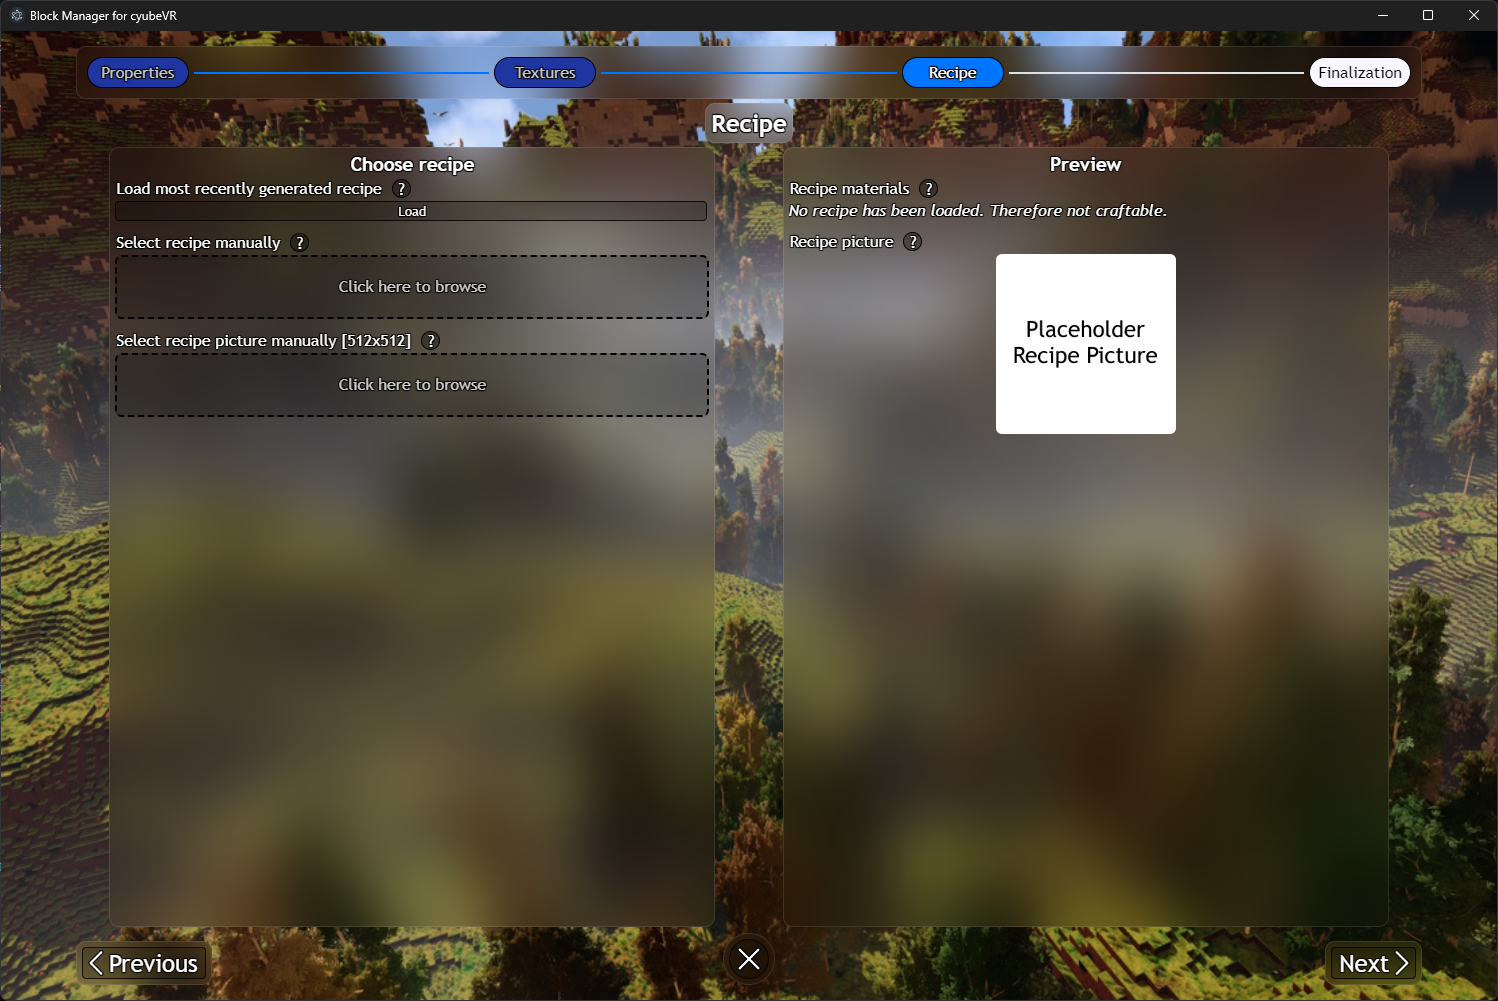
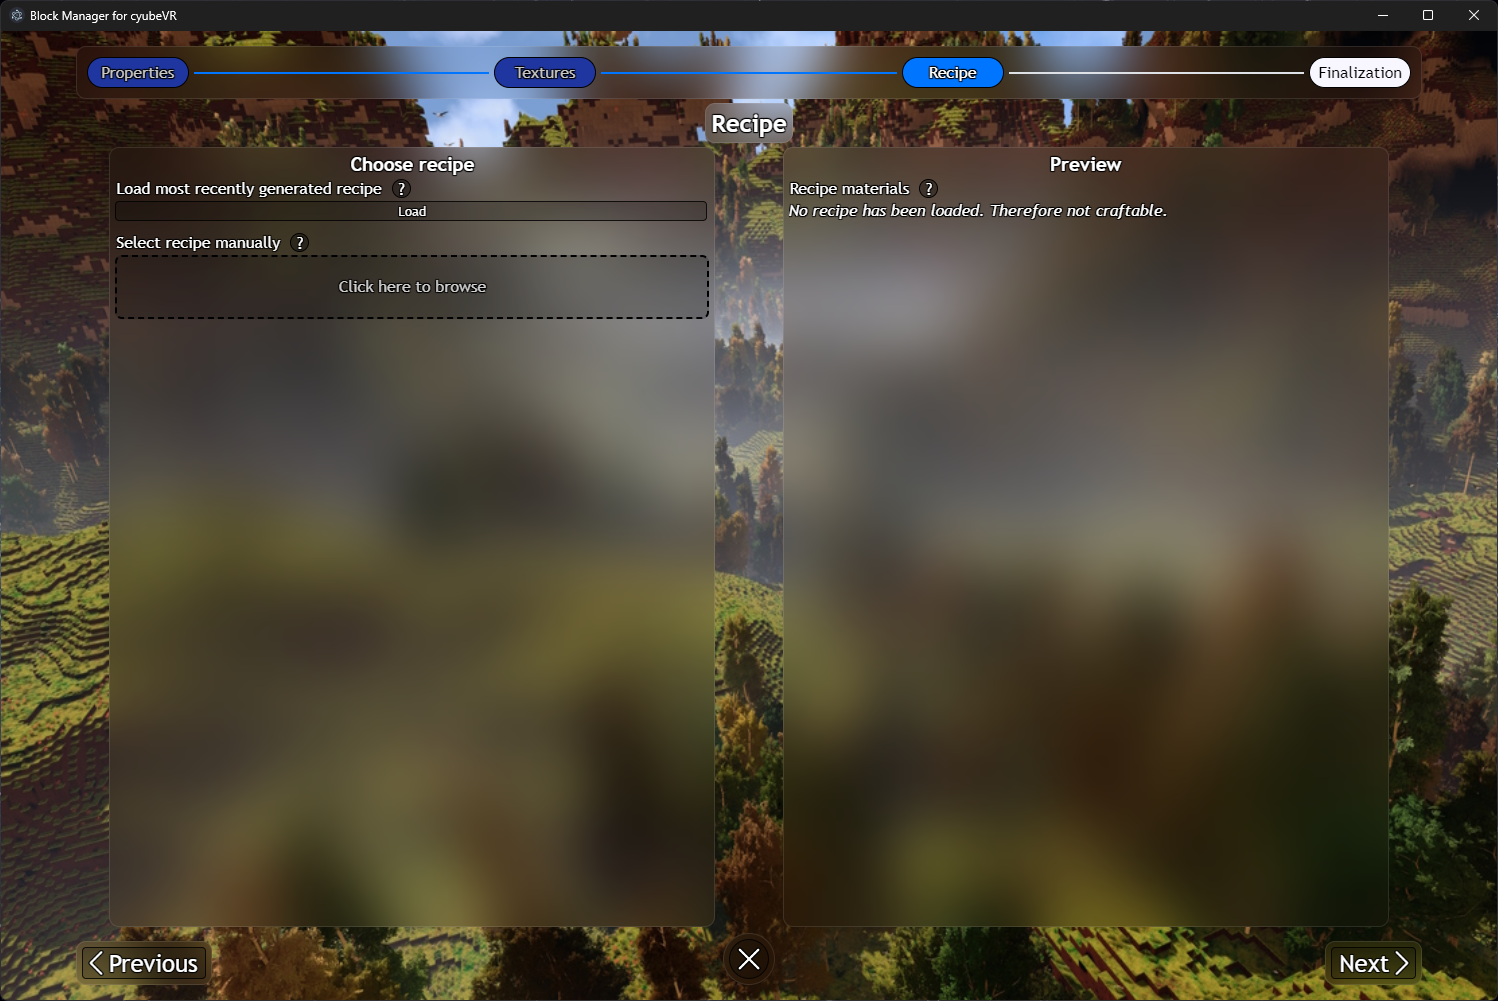
Updated readme

diff --git a/README.md b/README.md
@@ -40,11 +40,8 @@ Here there are also both Required and Optional textures that you can provide. Ho
 each type of texture.
 
 ### Recipe
-For the recipe you have to provide both a file specifying what blocks to use as well as an image showing how to craft the block.
-If you use the in-game recipe generator button, then you can simply press the "Load most recently generated recipe" button and
-the recipe materials to the right should update accordingly. You do however have to manually choose a recipe picture (I
-recommend taking a picture in-game while you hold the recipe before you press the "generate recipe file" button in the suitcase).
-Don't forget to crop the image so that it is 512x512 pixels!
+For the recipe you have to provide a file specifying what blocks to use.
+If you use the in-game recipe generator button, then you can simply press the "Load most recently generated recipe" button and the recipe materials to the right should update accordingly.
 
 The recipe part looks like this:
 ![Image of recipe part](readme_images/6.png)
@@ -54,8 +51,3 @@ Lastly we have the finalization. This is just where you specify where to save th
 block or as part of a mod. It looks like this:
 ![Image of finalization part](readme_images/7.png)
 If you want the block to be part of a mod, then choose the mod and the version that the mod is made for.
-
-### Disclaimer
-This product includes components of the PowerVR Tools Software from Imagination Technologies Limited.
-
-These are used to convert common image files (.png for example) into .dds files that are used for textures in cyubeVR.
